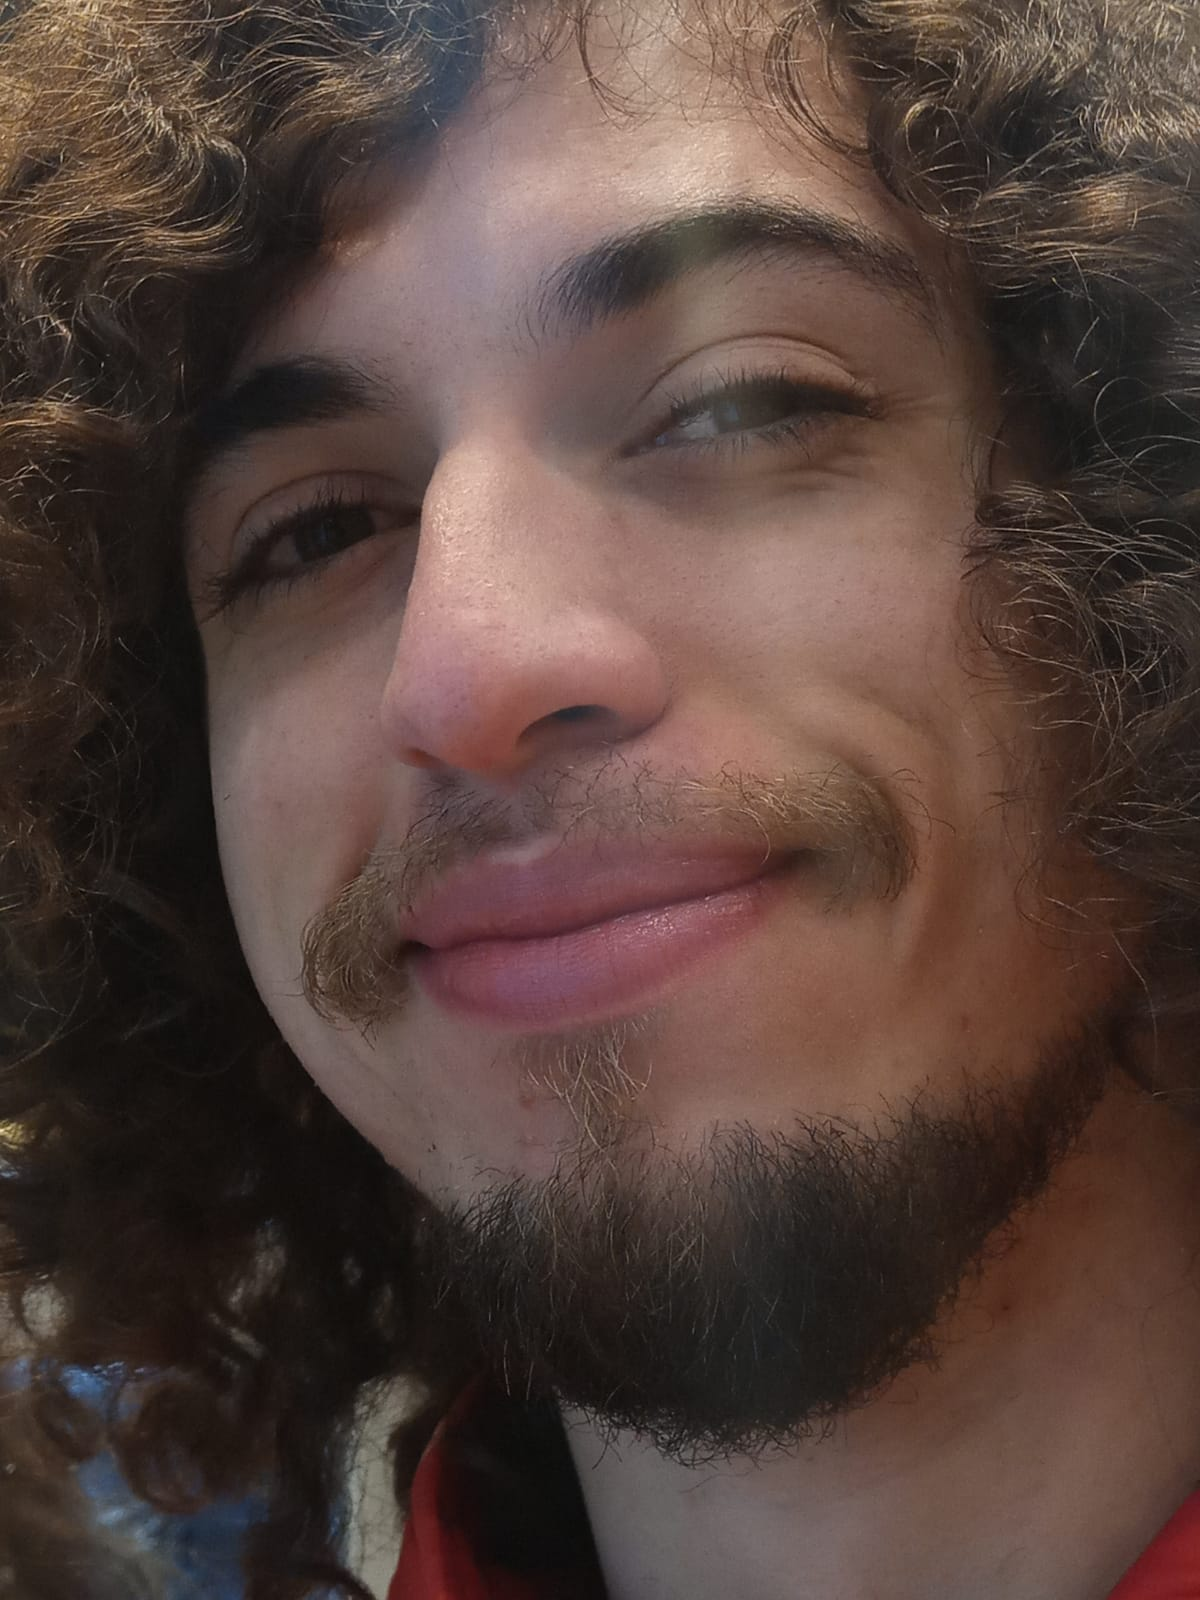
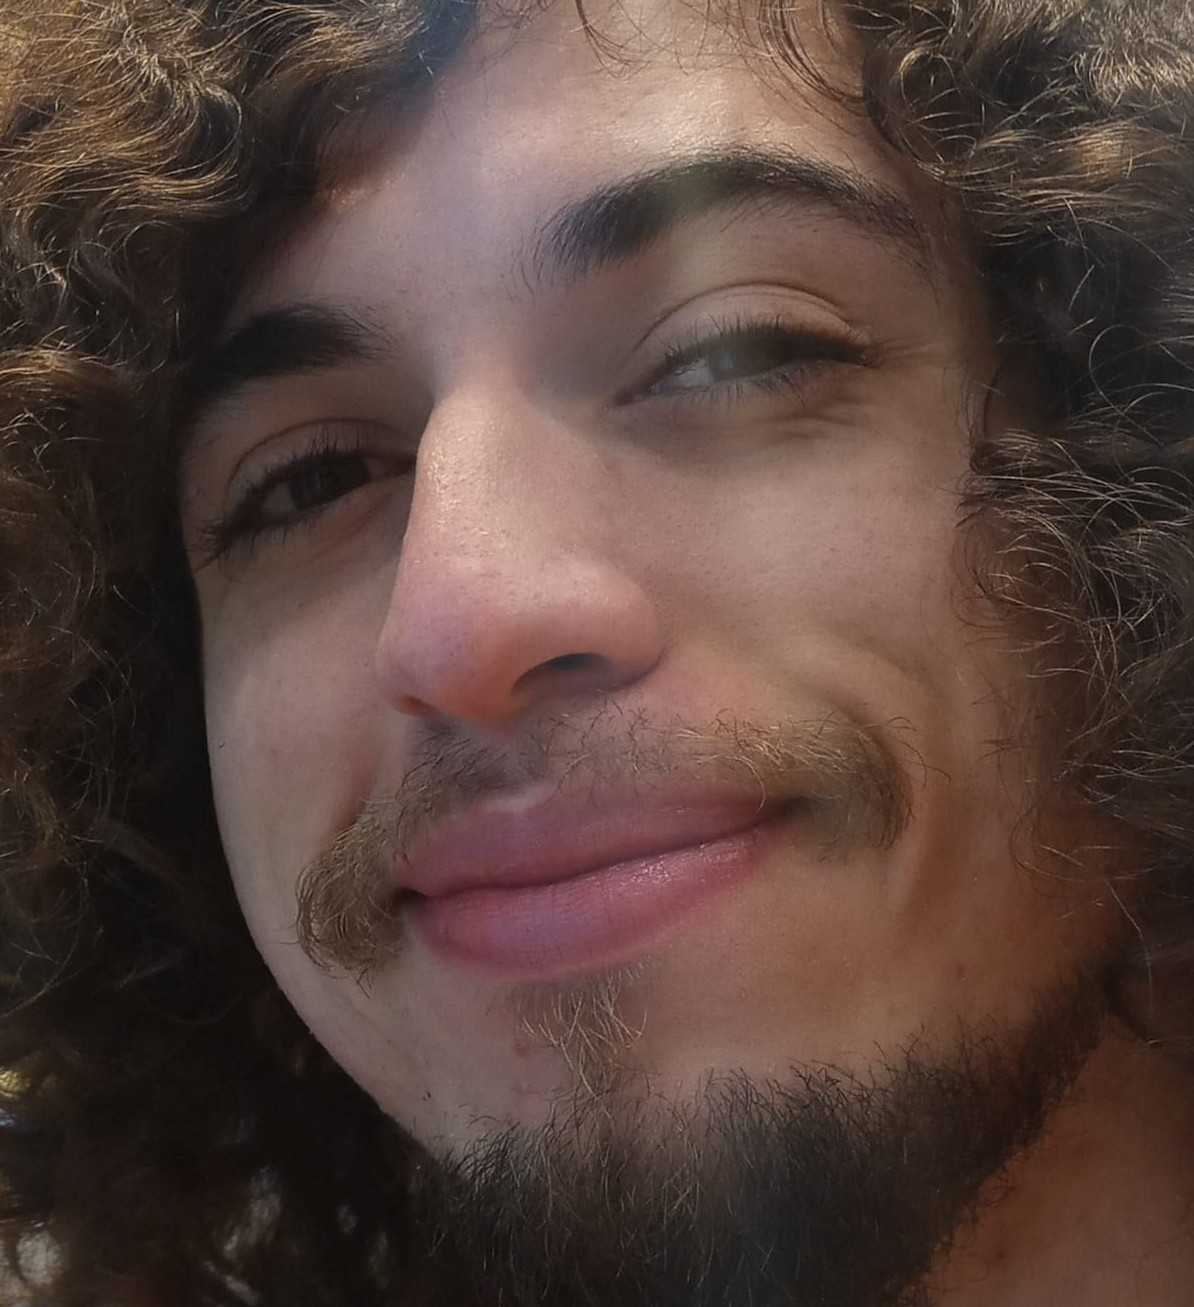
Limpei o style, vou colocar tudo dentro do index e depois que terminar vou passar pro style, também cortei a imagem(não deveria)

diff --git a/index.html b/index.html
@@ -1,33 +1,81 @@
 <!DOCTYPE html>
 <html lang="en">
-<head>
-    <meta charset="UTF-8">
-    <meta http-equiv="X-UA-Compatible" content="IE=edge">
-    <meta name="viewport" content="width=device-width, initial-scale=1.0">
+  <head>
+    <link rel="preconnect" href="https://fonts.googleapis.com" />
+    <link rel="preconnect" href="https://fonts.gstatic.com" crossorigin />
+    <link
+      href="https://fonts.googleapis.com/css2?family=Poppins:ital,wght@0,100;0,200;0,300;0,400;0,500;0,600;0,700;0,800;0,900;1,100;1,200;1,300;1,400;1,500;1,600;1,700;1,800;1,900&display=swap"
+      rel="stylesheet"
+    />
+    <meta charset="UTF-8" />
+    <meta http-equiv="X-UA-Compatible" content="IE=edge" />
+    <meta name="viewport" content="width=device-width, initial-scale=1.0" />
     <title>Portfólio de Juan Cassius</title>
-</head>
-<body>
-    <h1>Esse é o meu portfólio, fique a vontade!</h1>
-    <h2>O que deseja saber?</h2>
-    <ul>
-        <li> <a href="#foto"> Quem sou eu?</a></li>
-        <li> <a href="#gostos"> Do que eu gosto? </a></li>
-        <li> <a href="#conteudo"></a> O que aprendi?</li>
-    </ul>
-    <h2>Quem sou eu?</h2>
-    <img id="foto" src="/img/WhatsApp Image 2022-12-23 at 20.57.14.jpeg" alt="Um retrato de Juan Cassius tirada em 2022" width="300px">
-    <p> <em> Atualmente sou estudante de Web Development Full-Stack <br> na escola de programação <a href="https://betrybe.com"> Trybe </a></em></p>
-    <p>Oi! Meu nome é Juan Cassius Carneiro Pereira, moro em Ponta Grossa-PR, vim pra essa cidade pra estudar Engenharia de Computação. Durante o curso acabei entrando em atividades extra-curriculares ligadas à música e acabei descobrindo minha paixão, a percussão. Nessas atividades desenvolvi várias habilidades que considero importantes para o mercado de trabalho, <strong> trabalho em equipe</strong>, <strong> liderança</strong> e <strong>gestão de risco</strong>, por exemplo.  
+    <style>
+      .main-title {
+        text-align: center;
+        font-family: "Poppins", sans-serif;
+      }
+      .aboutme-title {
+        margin-bottom: 100px;
+        font-size: larger;
+      }
+      #foto {
+        margin-left: 750px;
+        border-top-left-radius: 25%;
+        border-bottom-right-radius: 25%;
+      }
+    </style>
+  </head>
+  <body>
+    <div>
+      <h1 class="main-title">Esse é o meu portfólio, fique a vontade!</h1>
+    </div>
+
+    <div>
+      <h2> O que deseja saber?</h2>
+      <ul>
+        <li><a href="#foto"> Quem sou eu?</a></li>
+        <li><a href="#gostos"> Do que eu gosto? </a></li>
+        <li><a href="#conteudo"></a> O que aprendi?</li>
+      </ul>
+    </div>
+    <div>
+      <h2 class="aboutme-title">Juan Cassius Carneiro Pereira</h2>
+      <img
+        id="foto"
+        src="/img/WhatsApp Image 2022-12-23 at 20.57.14.jpeg"
+        alt="Um retrato de Juan Cassius tirada em 2022"
+        width="200px"
+      />
+      <p>
+        <em>
+          Atualmente sou estudante de Web Development Full-Stack <br />
+          na escola de programação <a href="https://betrybe.com"> Trybe </a></em
+        >
+      </p>
+      <p>
+        Oi! Meu nome é Juan Cassius Carneiro Pereira, moro em Ponta Grossa-PR,
+        vim pra essa cidade pra estudar Engenharia de Computação. Durante o
+        curso acabei entrando em atividades extra-curriculares ligadas à música
+        e acabei descobrindo minha paixão, a percussão. Nessas atividades
+        desenvolvi várias habilidades que considero importantes para o mercado
+        de trabalho,
+        <strong> trabalho em equipe</strong>, <strong> liderança</strong> e
+        <strong>gestão de risco</strong>, por exemplo.
+      </p>
+    </div>
+    <h2 id="gostos"> Do que gosto? </h2>
+    <p>
+      Desde pequeno consumo muito conteúdo relacionado a cultura nerd, nesse
+      <a target="_blank" href="https://jovemnerd.com.br/">Jovem Nerd</a>
     </p>
-    <h2 id="gostos">Do que gosto?</h2>
-    <p> Gosto de... <a target="_blank" href="https://google.com/">entrar aqui e pesquisar coisas</a> </p>
-    <h2 id="#conteudo"> O que aprendi?</h2>
+    <h2 id="#conteudo">O que aprendi?</h2>
     <ul>
-        <li>HTML</li>
-        <li>CSS</li>
-        <li>A adicionar..</li>
-        <li>A adicionar..</li>
-        
+      <li>HTML</li>
+      <li>CSS</li>
+      <li>A adicionar..</li>
+      <li>A adicionar..</li>
     </ul>
-</body>
+  </body>
 </html>

diff --git a/style.css b/style.css
@@ -1,0 +1,5 @@
+body{
+    background-color: hsl(232, 87%, 54%);
+    color: antiquewhite;
+    text-align: center;
+}
